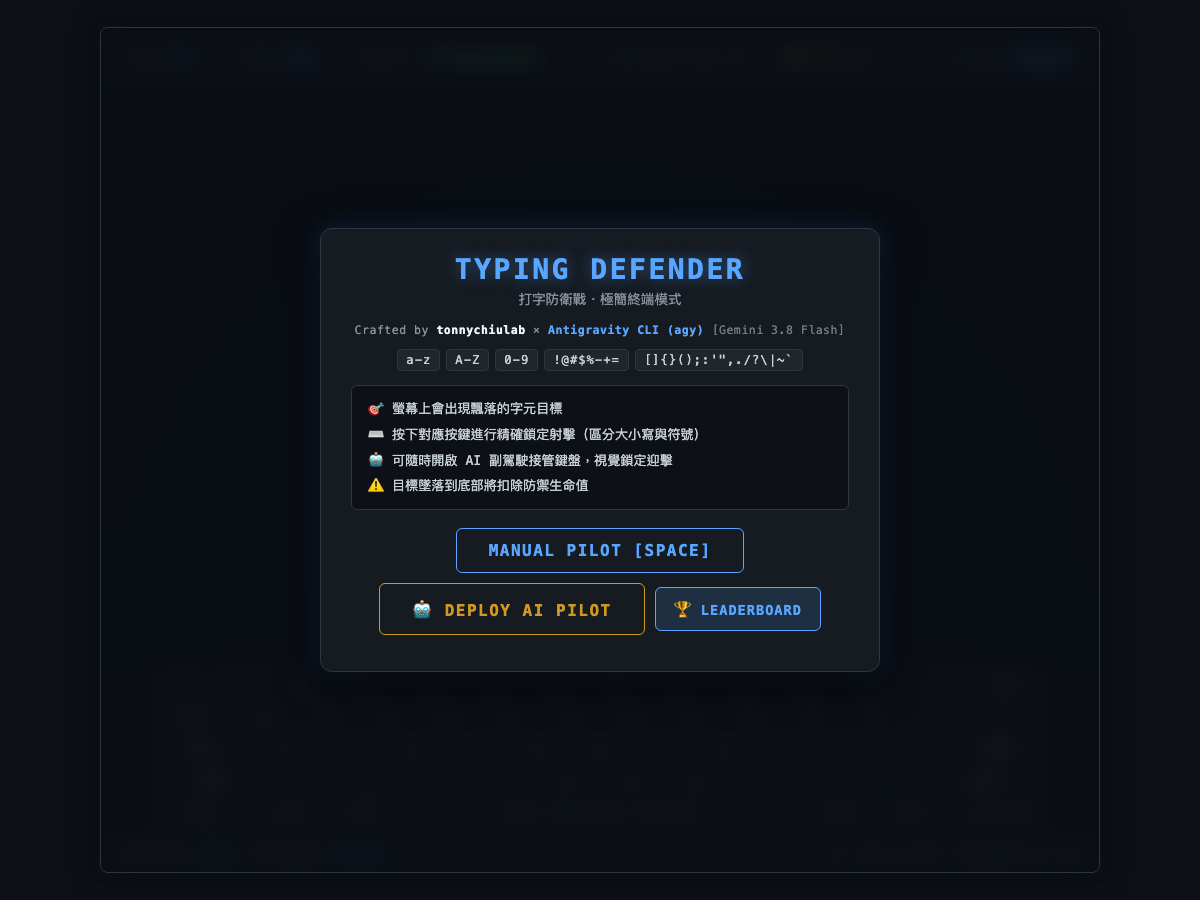
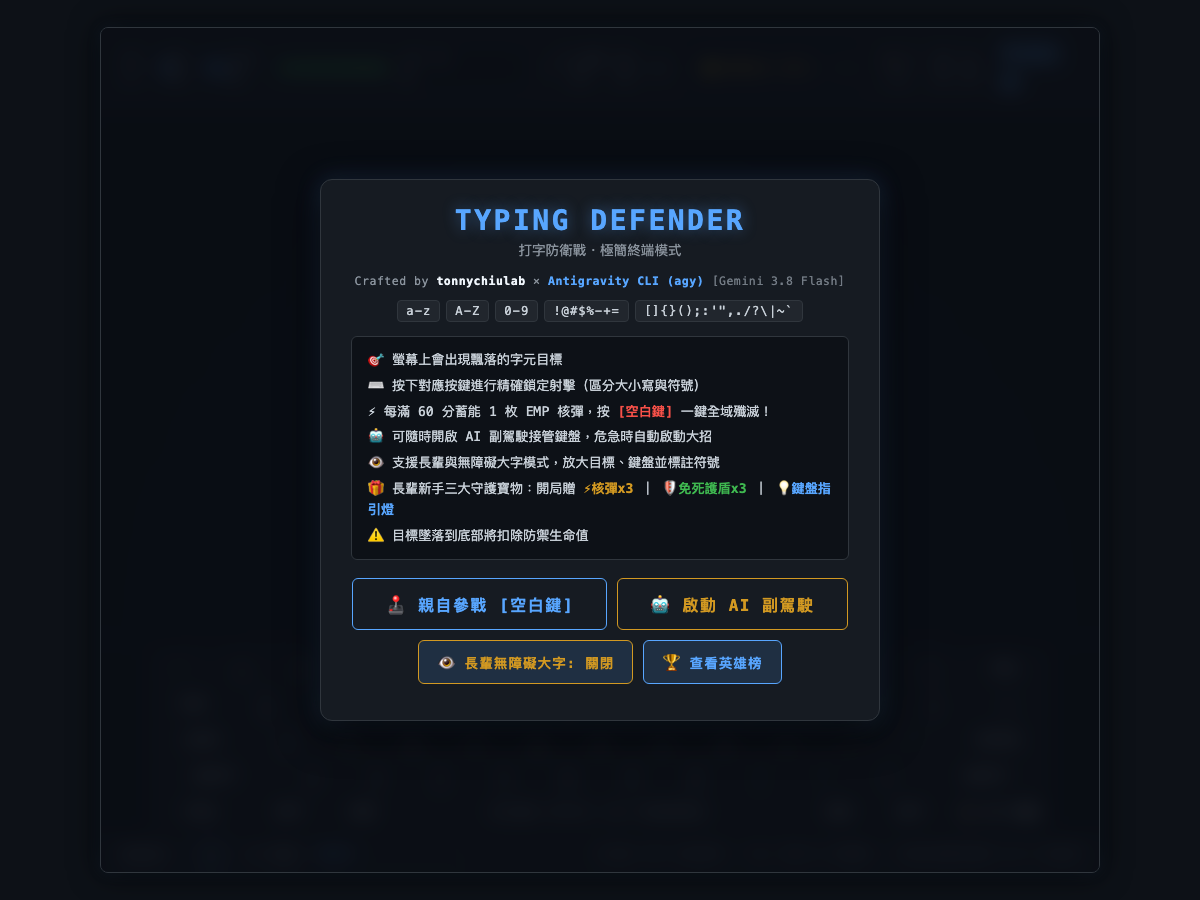
docs: update README screenshots with Traditional Chinese UI and paired upper/lowercase keyboard

Changed region(s): [[0.3083, 0.2178, 0.7092, 0.7778], [0.6475, 0.5289, 0.7092, 0.56]]

diff --git a/game.js b/game.js
@@ -1393,6 +1393,95 @@ class TypingGame {
             this.aiIsExecuting = false;
         }, delay);
     }
+
+    // 專供生成 README 與預覽戰鬥截圖之場景建構函式
+    setupScreenshotScene() {
+        if (this.startModal) {
+            this.startModal.classList.remove('active');
+            this.startModal.style.display = 'none';
+        }
+        this.isPlaying = true;
+        this.isAiPilot = true;
+        this.currentAiModelKey = 'veteran';
+        this.score = 2850;
+        this.combo = 26;
+        this.bombs = 2;
+        this.maxBombs = 2;
+        this.shields = 3;
+        this.health = 80;
+
+        if (this.shieldContainer) {
+            this.shieldContainer.style.display = 'flex';
+            this.updateShieldUI();
+        }
+
+        this.triggerHtmxUpdates();
+        this.updateBombUI();
+        this.updateAiUI();
+
+        const sampleTargets = [
+            { char: 'w', x: 380, y: 190, isLocked: true },
+            { char: '4', x: 450, y: 90 },
+            { char: 'K', x: 540, y: 120 },
+            { char: '@', x: 770, y: 150 },
+            { char: '{', x: 650, y: 240 },
+            { char: '7', x: 920, y: 220 },
+            { char: 'x', x: 250, y: 130 }
+        ];
+
+        sampleTargets.forEach((item, idx) => {
+            const el = document.createElement('div');
+            el.id = `mock-target-${idx}`;
+            let charType = 'char-lower';
+            if (CHAR_SETS.upper.includes(item.char)) charType = 'char-upper';
+            else if (CHAR_SETS.digits.includes(item.char)) charType = 'char-number';
+            else if (CHAR_SETS.symbols.includes(item.char)) charType = 'char-symbol';
+            el.className = `target-node ${charType}`;
+            if (item.isLocked) el.classList.add('ai-locked-target');
+            const subtag = SYMBOL_ANNOTATIONS[item.char] ? `<span class="symbol-subtag">${SYMBOL_ANNOTATIONS[item.char]}</span>` : '';
+            el.innerHTML = `<span class="char-glyph">${item.char}</span>${subtag}`;
+            el.style.left = `${item.x}px`;
+            el.style.top = `${item.y}px`;
+            this.targetsContainer.appendChild(el);
+            this.targets.push({ id: el.id, char: item.char, x: item.x, y: item.y, element: el });
+        });
+
+        // 瞄準鎖定目標並繪製持續高能雷射光束與同心衝擊環
+        const locked = sampleTargets.find(s => s.isLocked);
+        if (locked && this.cannon && this.battlefield && this.fxLayer) {
+            this.aimCannonAt(locked.x, locked.y);
+
+            const cannonRect = this.cannon.getBoundingClientRect();
+            const fieldRect = this.battlefield.getBoundingClientRect();
+            const startX = cannonRect.left - fieldRect.left + cannonRect.width / 2;
+            const startY = cannonRect.top - fieldRect.top;
+
+            const line = document.createElementNS('http://www.w3.org/2000/svg', 'line');
+            line.setAttribute('x1', startX);
+            line.setAttribute('y1', startY);
+            line.setAttribute('x2', locked.x);
+            line.setAttribute('y2', locked.y);
+            line.setAttribute('stroke', '#58a6ff');
+            line.setAttribute('stroke-width', '3.5');
+            line.setAttribute('filter', 'drop-shadow(0 0 10px #58a6ff)');
+            this.fxLayer.appendChild(line);
+
+            const circle = document.createElementNS('http://www.w3.org/2000/svg', 'circle');
+            circle.setAttribute('cx', locked.x);
+            circle.setAttribute('cy', locked.y);
+            circle.setAttribute('r', '220');
+            circle.setAttribute('fill', 'none');
+            circle.setAttribute('stroke', 'rgba(248, 81, 73, 0.45)');
+            circle.setAttribute('stroke-width', '2');
+            this.fxLayer.appendChild(circle);
+
+            this.aiGazeAtKey('w');
+            this.lastKeyDisplay.textContent = 'w';
+            if (this.aiDecisionDisplay) {
+                this.aiDecisionDisplay.textContent = '鎖定目標 [w] 墜落倒數: 2.3秒';
+            }
+        }
+    }
 }
 
 // ==========================================
@@ -1528,6 +1617,11 @@ if (typeof document !== 'undefined') {
     document.addEventListener('DOMContentLoaded', () => {
         window.game = new TypingGame();
         initStaticHostInterceptors();
+
+        const urlParams = typeof window !== 'undefined' && window.location ? new URLSearchParams(window.location.search) : null;
+        if (urlParams && urlParams.get('mode') === 'screenshot-battle') {
+            window.game.setupScreenshotScene();
+        }
     });
 }
 
